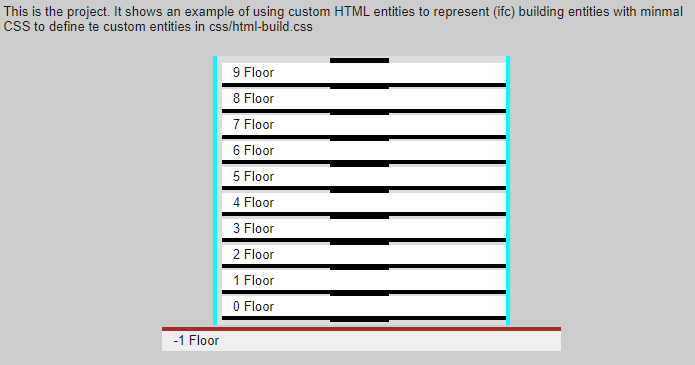
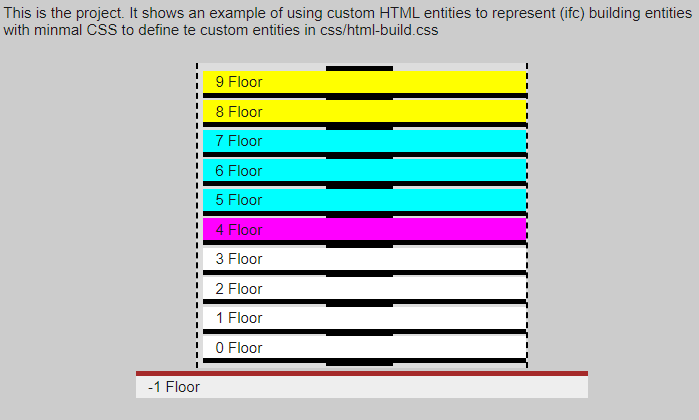
added floor type example

diff --git a/html-build-with-floortypes/index.html b/html-build-with-floortypes/index.html
@@ -1,0 +1,35 @@
+<html>
+	<head> <!--- we want this to contain project information --->
+		<title>A building / Project Name</title> <!--- name of the project --->
+		<link rel="stylesheet" href="css/html-build.css">
+				<!--- this could contain links to the files that contain the the styling / materials / properties and classes for the project -->		
+		</link> 
+		<link rel="stylesheet" href="css/floors.css" />
+		<script> <!-- this could contain lots of cool stuff!!! ---></script>
+	</head> <!--- end of the project information -->
+	<body>
+			<!--- each entitie (tag) needs a dash it to be a proper custom HTML entity -->
+			<project->
+			This is the project. It shows an example of using custom HTML entities to represent (ifc) building entities with minmal CSS to define te custom entities in css/html-build.css
+				<site->
+					<building->
+						<core->
+							<floor- class="resi">9 Floor</floor->
+							<floor- class="resi">8 Floor</floor->
+							<floor- class="office">7 Floor</floor->
+							<floor- class="office">6 Floor</floor->
+							<floor- class="office">5 Floor</floor->
+							<floor- class="MEP">4 Floor</floor->
+							<floor->3 Floor</floor->
+							<floor->2 Floor</floor->
+							<floor->1 Floor</floor->
+							<floor->0 Floor</floor->
+						</core->
+					</building->
+					<foundation->-1 Floor</foundation->
+				</site->
+			</project->
+		
+	</body>
+<html>
+

diff --git a/html-build-with-floortypes/css/floors.css b/html-build-with-floortypes/css/floors.css
@@ -1,0 +1,12 @@
+
+.resi {
+	background-color:yellow;
+}
+
+.office {
+	background-color:cyan;
+}
+
+.MEP {
+	background-color:magenta;
+}

diff --git a/html-build-with-floortypes/README.md b/html-build-with-floortypes/README.md
@@ -1,0 +1,5 @@
+# html-build-minimal-example
+
+This example uses just the core css file.
+
+This creates new HTML tags for each of the building objects. Each entity needs a dash in it to be accepted as custom HTML. Instances of this objects can then be seperately classed.
